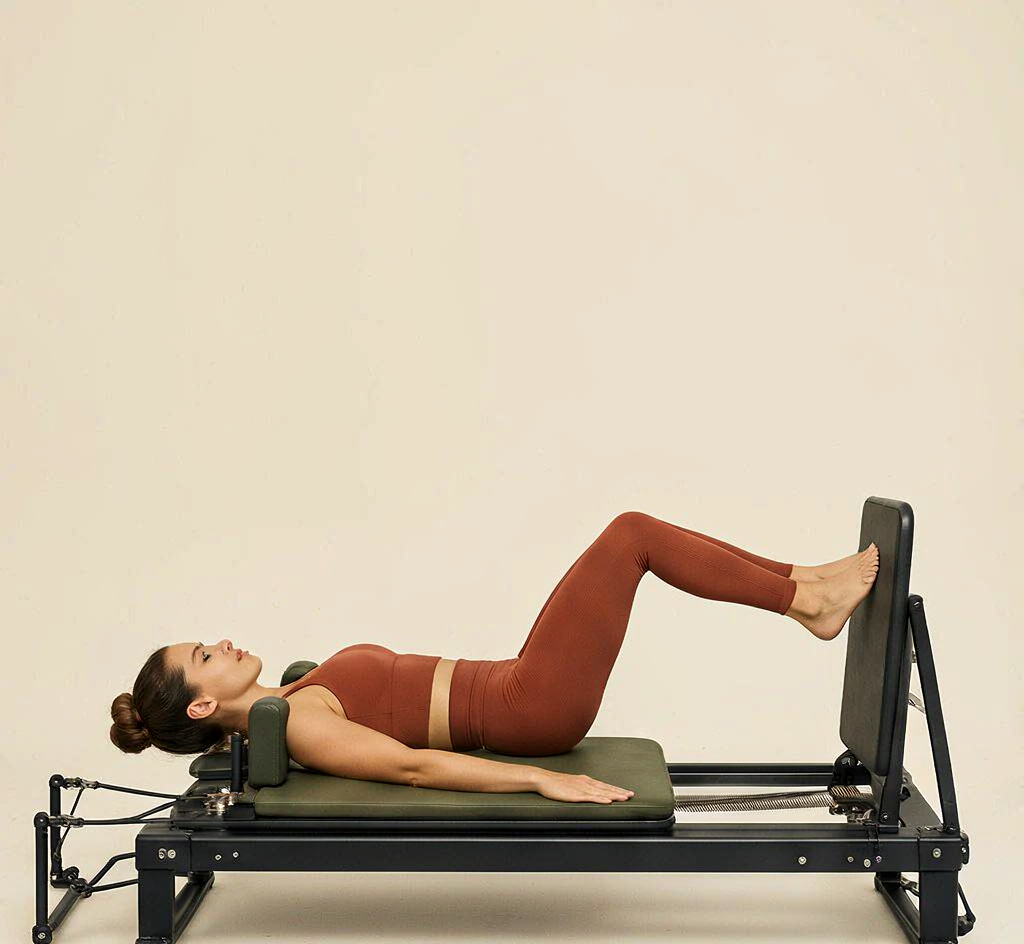
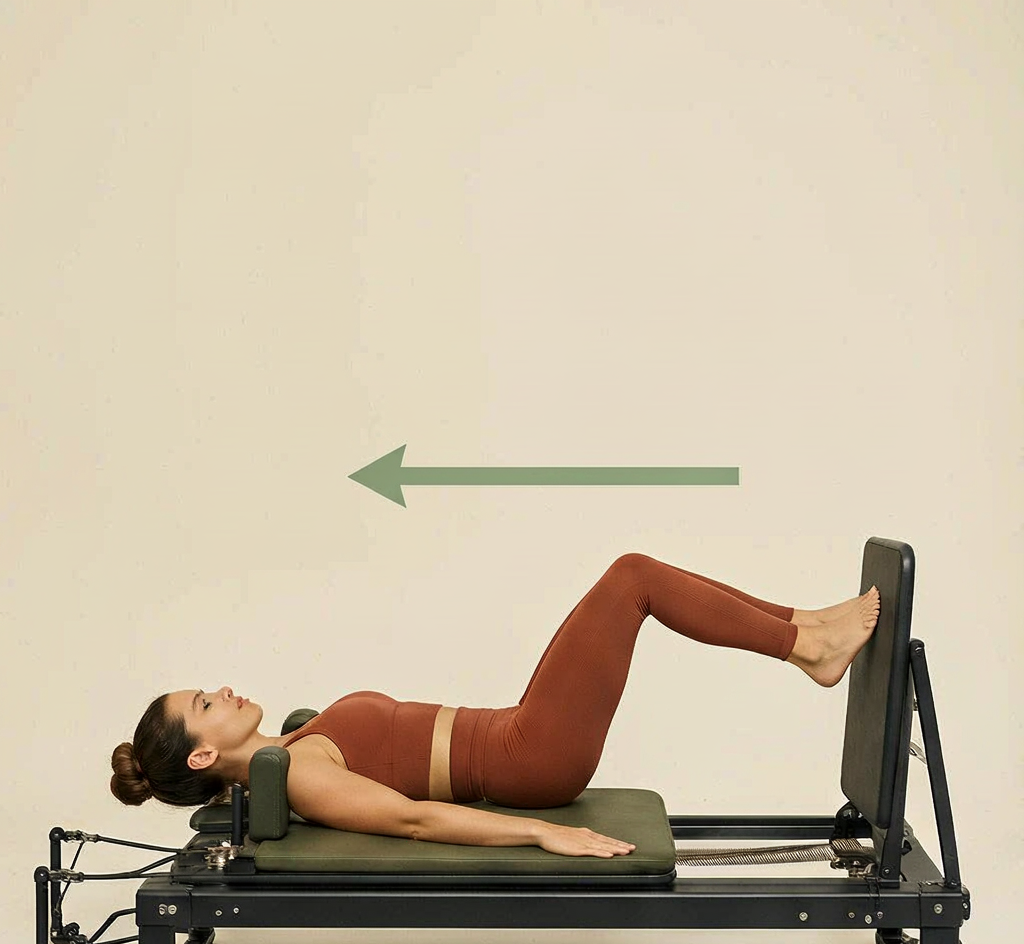
Use selected Footwork on Footplate image

Changed region(s): [[0.0312, 0.4608, 0.9688, 1.0]]

diff --git a/src/App.tsx b/src/App.tsx
@@ -348,7 +348,7 @@ const reformerAlignedImages: Record<string, string> = {
   "Pelvic Lift": "assets/reformer/68.png?v=1",
   "Side Splits": "assets/reformer/69.png?v=1",
   "Single Leg Heel Footwork": "assets/reformer/70.png?v=1",
-  "Footwork on Footplate": "assets/reformer/71.png?v=1",
+  "Footwork on Footplate": "assets/reformer/71.png?v=2",
   "Jumping on Footplate": "assets/reformer/72.png?v=1",
   "Supine Arm Work": "assets/reformer/73.png?v=1",
   "Bridging": "assets/reformer/74.png?v=1",
